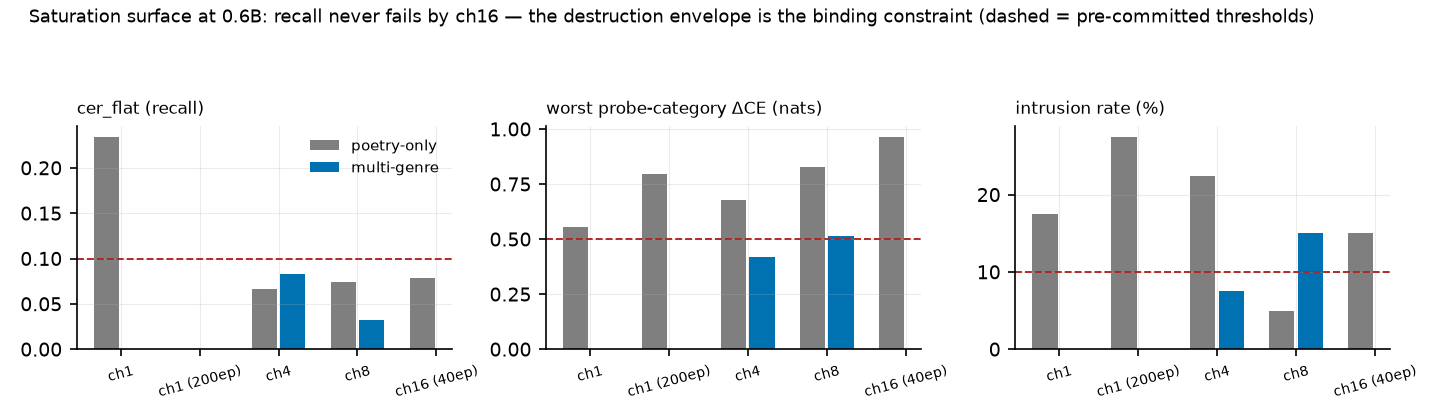
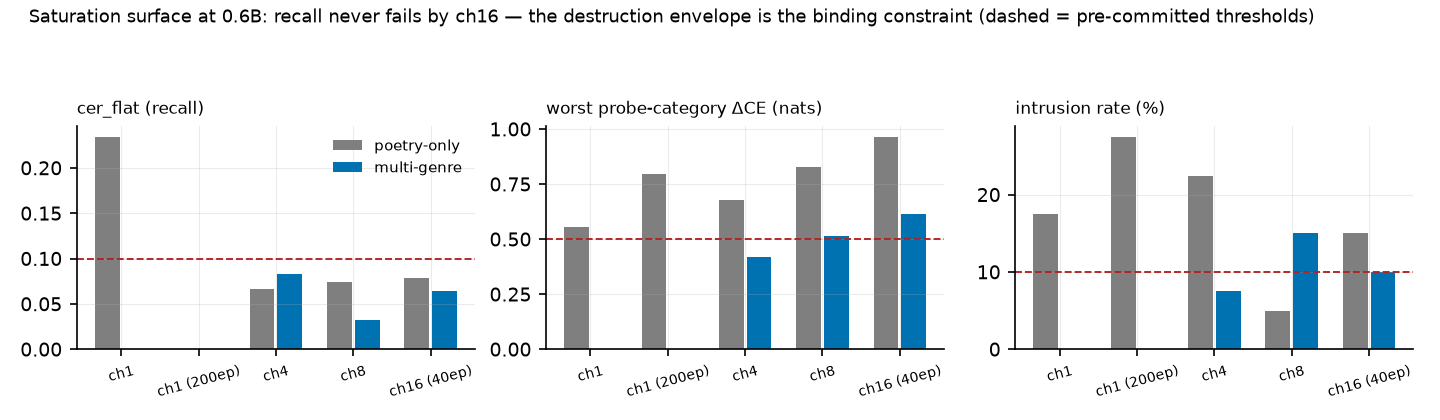
verdict(): intersect benchmark suites (std-quartet arms vs old base refs crashed tailonly_4b battery); fig5 regenerated with ch16 grid pair

diff --git a/src/selfupdate/eval/destruction.py b/src/selfupdate/eval/destruction.py
@@ -272,9 +272,12 @@ def verdict(dest: dict, base: dict) -> dict:
         "worst_category": worst[1], "worst_dce": worst[0],
         "tripped": worst[0] > DESTRUCTION_THRESHOLDS["probe_category_dce"]}
     if "benchmarks" in dest and "benchmarks" in base:
+        # intersect: suites evolve (std quartet added 2026-07-04); a run
+        # judged against an older base ref uses the shared benchmarks only
+        shared = set(dest["benchmarks"]) & set(base["benchmarks"])
         drops = {b: 100 * (base["benchmarks"][b]["accuracy"]
                            - dest["benchmarks"][b]["accuracy"])
-                 for b in dest["benchmarks"]}
+                 for b in shared}
         wb = max(drops, key=drops.get)
         flags["benchmark"] = {
             "worst_benchmark": wb, "worst_drop_pts": drops[wb],